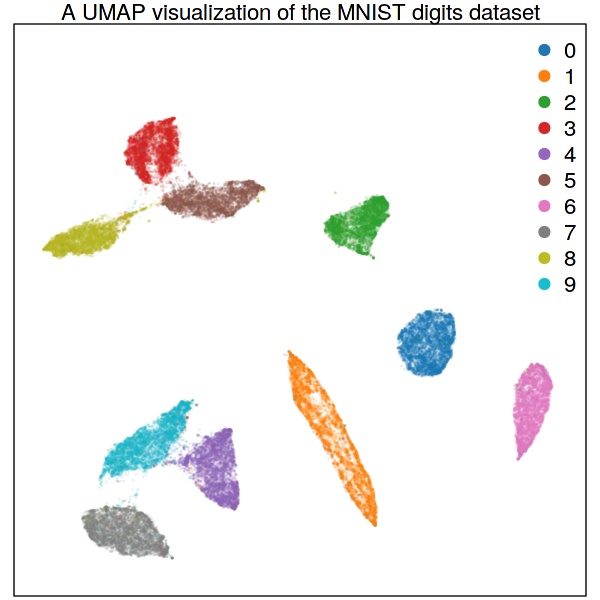
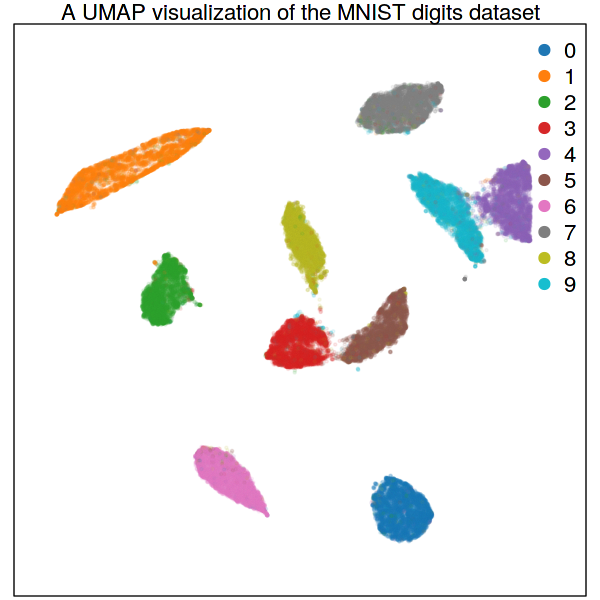
vignette and README explaining predict()

diff --git a/README.md b/README.md
@@ -18,7 +18,12 @@ The figure below shows dimensional reduction on the [MNIST digits](https://en.wi
 <img src="https://github.com/tkonopka/umap/blob/master/images/readme_mnist.png?raw=true" alt="A UMAP visualization of the MNIST digits dataset" width="600px">
 </img>
 
-More information on usage can be found in the package [vignette](https://github.com/tkonopka/umap/tree/master/vignettes).
+The package also allows to project data onto an existing embedding. Below, the first figure shows a map created from a subset of 60,000 observations from the MNIST data. The second figure is a projection of the held-out 10,000 observations onto the layout defined by the training data. 
+
+<img src="https://github.com/tkonopka/umap/blob/master/images/readme_mnist_training.png?raw=true" alt="A UMAP visualization of the MNIST digits dataset" width="350px"></img>
+<img src="https://github.com/tkonopka/umap/blob/master/images/readme_mnist_test.png?raw=true" alt="A UMAP visualization of the MNIST digits dataset" width="350px"></img>
+
+More information on usage can be found in the package [vignettes](https://github.com/tkonopka/umap/tree/master/vignettes).
 
 
 
@@ -27,11 +32,11 @@ More information on usage can be found in the package [vignette](https://github.
 
 The package provides two implementations of the UMAP algorithm.
 
-The default implementation is one written mostly in R with some Rcpp. This implementation follows closely the original python code. However, any bugs or errors should be regarded as arising solely from this implementation, not from the original. The implementation has minimal dependencies and should work on most platforms, but is not optimized for speed. (The MNIST graphic is generated based on this default implementation).
+The default implementation is one written in R and Rcpp. This implementation follows the original python code. However, any bugs or errors should be regarded as arising solely from this implementation, not from the original. The implementation has minimal dependencies and should work on most platforms. (The MNIST graphic is generated based on this default implementation).
 
 A second implementation is a wrapper for the python package. This offers similar functionality to another existing package [umapr](https://github.com/ropenscilabs/umapr). To use this implementation, additional installation steps are required; see documentation for the [python package](https://github.com/lmcinnes/umap) for details. 
 
-
+Note: an independent R implementation of UMAP is also available in a separate package [uwot](https://github.com/jlmelville/uwot).
 
 
 ## References
